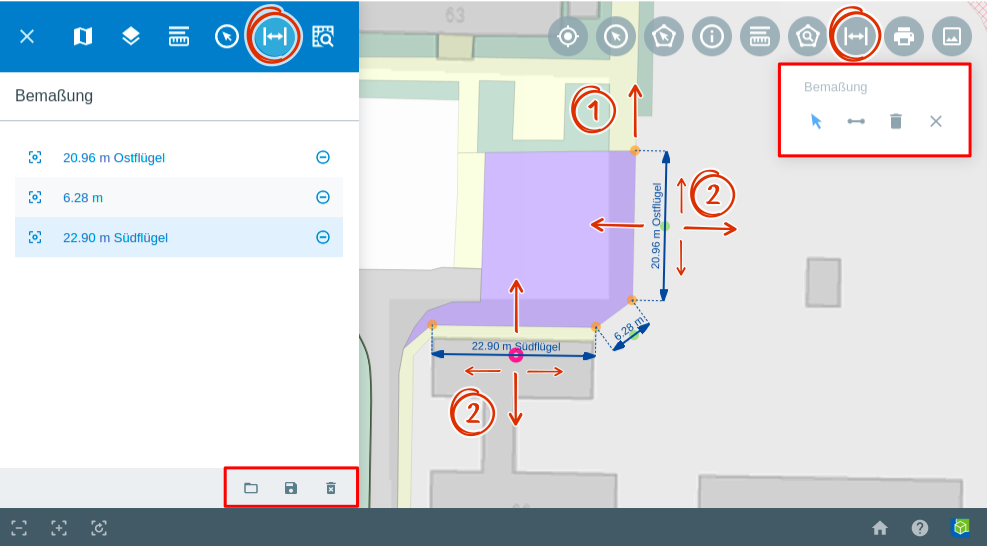
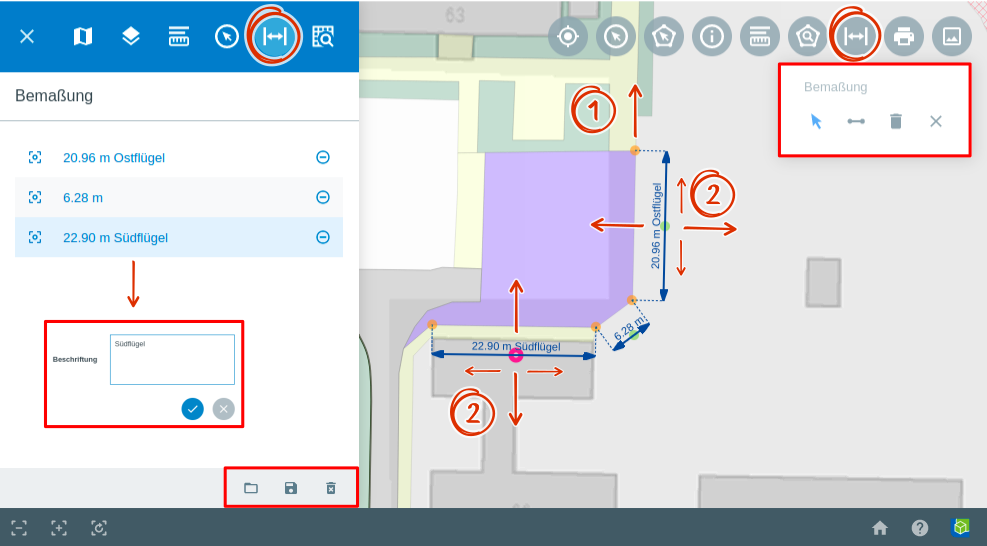
GWS Doku Update

Changed region(s): [[0.0304, 0.5293, 0.2736, 0.8095], [0.0304, 0.6227, 0.0912, 0.685]]

diff --git a/doc/sphinx/books/client-user/de/toolbox/gkos.rst b/doc/sphinx/books/client-user/de/toolbox/gkos.rst
@@ -3,18 +3,22 @@
 GeKoS
 =====
 
-GeKos ist ein Anbieter für kommunale Software Lösungen. Das |gkos| ``GeKoS``-Werkzeug ist eine Schnittstelle zum Einbinden dieser externen Fachschale in die GBD WebSuite.
+**Funktion:**
+
+GeKos ist ein Anbieter für kommunale Software Lösungen. Das |gkos| :guilabel:`GeKoS`-Werkzeug ist eine Schnittstelle zum Einbinden dieser externen Fachschale in die GBD WebSuite.
 Falls Sie mit GeKoS zusammenarbeiten, können Sie mit Hilfe dieses Werkzeugs, Daten und Informationen einbinden, verwalten und weiterleiten.
 Änderungen werden in der GBD WebSuite übernommen, sowie an die Gekos Software übermittelt.
-
-.. figure:: ../../../screenshots/de/client-user/gkos1.png
-  :align: center
-
 Eingebundene Daten stehen Ihnen als eigene Layer zur Verfügung. In diesem Beispiel wurden via Gekos Baugenehmigungsverfahren eingebunden,
 welche konkreten Flurstücken aus einem anderen Layer zugeordnet sind. Diese Baugenehmigungsverfahren können in der GBD WebSuite eingesehen und editiert werden.
-Eine häufige Aufgabe bei diesen Verfahren ist es, die Vorgangskoordinaten zu ermitteln. Hierzu wurden drei Icons mit Funktionen in die Gekos Maske eingebunden.
 
-.. figure:: ../../../screenshots/de/client-user/gkos2.png
+.. figure:: ../../../screenshots/de/client-user/gkos11.png
+  :align: center
+
+**Bedienung:**
+
+Die Ermittlung der Vorgangskoordinate ist eine gefragte Aufgabe bei diesen Verfahren. Hierzu wurden drei Icons mit Funktionen in die Gekos Maske eingebunden.
+
+.. figure:: ../../../screenshots/de/client-user/gkos22.png
   :align: center
 
 * |1| Über dieses Icon können Sie die Karte auf die vorhandene Vorgangskoordinate fokussieren.
@@ -25,14 +29,16 @@ Eine häufige Aufgabe bei diesen Verfahren ist es, die Vorgangskoordinaten zu er
 Die Symbolisierung und Beschriftung der Gekos Daten bzw. der Objekte eines Gekos Layers werden in QGIS konfiguriert.
 Dabei stehen sämtliche QGIS Darstellungsoptionen zur Verfügung.
 
-.. figure:: ../../../screenshots/de/client-user/gkos4.png
+.. figure:: ../../../screenshots/de/client-user/gkos44.png
   :align: center
 
-Die Suchfunktion der GBD WebSuite kann so eingerichtet werden, dass eine Suche die Attributwerte der Gekos Objekte mit einbezieht.
-So können Sie durch ein einziges Schlagwort einen Vorgang finden und sich anzeigen lassen.
+.. admonition:: Konfigurationsmöglichkeiten
 
-.. figure:: ../../../screenshots/de/client-user/gkos3.png
-  :align: center
+ Die Suchfunktion der GBD WebSuite kann so eingerichtet werden, dass eine Suche die Attributwerte der Gekos Objekte mit einbezieht.
+ So können Sie durch ein einziges Schlagwort einen Vorgang finden und sich anzeigen lassen.
+
+ ..   .. figure:: ../../../screenshots/de/client-user/gkos3.png
+    :align: center
 
 Für zusätzliche Informationen schauen Sie gerne auch unter: https://www.gekos.de/
 

diff --git a/doc/sphinx/books/client-user/de/toolbox/cadastral_unit_tools.rst b/doc/sphinx/books/client-user/de/toolbox/cadastral_unit_tools.rst
@@ -4,14 +4,17 @@ Flurstücksuche Werkzeuge
 ========================
 
 Funktionen der :ref:`Flurstücksuche <cadastral_unit_searching>` können prominent in der Werkzeugleiste angeordnet werden.
-Die beiden Funktionen ``Flurstücke über räumliche Suche finden`` und ``Einzelne Flurstücke in der Karte auswählen`` können so direkt aktiviert werden.
+Die beiden Funktionen :guilabel:`Flurstücke über räumliche Suche finden` und :guilabel:`Einzelne Flurstücke in der Karte auswählen` können so direkt aktiviert werden.
 
-.. rubric:: Flurstücke in der Karte über eine räumliche Suche finden
+Flurstücke in der Karte über eine räumliche Suche finden
+--------------------------------------------------------
 
-Mit Hilfe des Werkzeuges |spatial_search| ``Flurstücke über räumliche Suche finden`` ist es möglich, Flurstücke durch das Zeichnen von Geometrien zu ermitteln.
+**Funktion:**
+
+Mit Hilfe des Werkzeuges |spatial_search| :guilabel:`Flurstücke über räumliche Suche finden` ist es möglich, Flurstücke durch das Zeichnen von Geometrien zu ermitteln.
 Es öffnet sich in der Toolbar die Leiste für die ``Räumliche Suche`` mit dem Verweis, dass nun in den Flurstücken gesucht wird.
 
-**Beispiel: Auswahl Flurstücke durch Linie**
+**Bedienung:**
 
 Wählen Sie das Tool Linie aus. Zeichnen Sie nun parallel zu einer Straße eine Linie und schließen Sie diese mit einem Doppelklick ab.
 Anschließend werden Ihnen die Flurstücke in den Ergebnissen aufgelistet, welche von der Linie geschnitten werden. Auf dem Screenshot unten sieht man ein mögliches Ergebnis.
@@ -19,16 +22,23 @@ Anschließend werden Ihnen die Flurstücke in den Ergebnissen aufgelistet, welch
  .. figure:: ../../../screenshots/de/client-user/cadastral_unit_searching_area_search.png
    :align: center
 
-.. rubric:: Flurstücke in der Karte selektieren
+Flurstücke in der Karte selektieren
+-----------------------------------
 
-Das Werkzeug |select| ``Einzelne Flurstücke in der Karte wählen`` ermöglicht die Selektierung einzelner Flurstücke.
+**Funktion:**
+
+Das Werkzeug |select| :guilabel:`Einzelne Flurstücke in der Karte wählen` ermöglicht die Selektierung einzelner Flurstücke.
+
+**Bedienung:**
+
 Sobald das Werkzeug aktiviert ist, können Sie per Mausklick gewünschte Flurstücke aussuchen, welche dann in der Ablage aufgelistet werden.
 
  .. figure:: ../../../screenshots/de/client-user/cadastral_unit_searching_5.png
    :align: center
 
-.. note::
-  Die Längeneinheit kann individuell angepasst werden.
+.. admonition:: Konfigurationsmöglichkeiten
+
+ Die Längeneinheit kann individuell angepasst werden.
 
  .. |dimensions| image:: ../../../images/gbd-icon-bemassung-02.svg
    :width: 30em

diff --git a/doc/sphinx/books/client-user/de/toolbox/selecting.rst b/doc/sphinx/books/client-user/de/toolbox/selecting.rst
@@ -10,16 +10,16 @@ Auswählen
 **Bedienung:**
 
 Aktivieren Sie das Werkzeug, indem Sie auf |select| in der Werkzeugleiste klicken.
-Durch ein Anklicken der Objekte werden diese selektiert. Die ausgewählten Objekte werden orange markiert.
+Durch ein Anklicken von Objekten werden diese selektiert. Die ausgewählten Objekte werden orange markiert.
 Wenn Sie ein Objekt ein zweites mal Anklicken wird die Selektion aufgehoben.
-
-Alle selektierten Objekte werden in der Ablage des Menüpunkts :ref:`Auswahl <select>` aufgelistet.
-Dieser Menüpunkt öffnet sich automatisch, wenn das |select| :guilabel:`Auswählen`-Werkzeug aktiviert wird.
 
 .. figure:: ../../../screenshots/de/client-user/select1.png
   :align: center
 
-Am unteren Menüfensterrand befinden sich folgend Funktionen für den Menüpunkt :ref:`Auswahl <select>`:
+
+Alle selektierten Objekte werden in der Ablage des Menüpunkts :ref:`Auswahl <select>` aufgelistet.
+Dieser Menüpunkt öffnet sich automatisch, wenn das |select| :guilabel:`Auswählen`-Werkzeug aktiviert wird.
+Am unteren Menüfensterrand befinden sich folgende Funktionen für diesen Menüpunkt:
 
  * |load| Auswahl laden
  * |save| Auswahl speichern
@@ -27,7 +27,7 @@ Am unteren Menüfensterrand befinden sich folgend Funktionen für den Menüpunkt
 
 .. admonition:: Konfigurationsmöglichkeiten
 
- Durch eine Konfiguration ist eine Beschränkung dieser Funktion auf definierte Layer möglich.
+ Eine Beschränkung dieser Funktion auf definierte Layer kann konfiguriert werden.
 
  .. |select| image:: ../../../images/gbd-icon-auswahl-01.svg
    :width: 30em

diff --git a/doc/sphinx/books/client-user/de/toolbox/print.rst b/doc/sphinx/books/client-user/de/toolbox/print.rst
@@ -20,15 +20,17 @@ Im Kartenfenster öffnet sich ein Kartenrahmen mit dazugehörigem Dialogfenster.
 .. figure:: ../../../screenshots/de/client-user/print1.png
   :align: center
 
-* :command:`Druckvorlage:` und somit die Ausdehnung des Kartenrahmens konfigurieren.
-* :command:`Druckqualität:` kann unterschiedlich bereitgestellt werden.
-* :command:`Beschriftung:` können Sie einen Titel für den Druck vergeben.
+Hier sollten folgende Parameter zuerst definiert werden:
+
+* :command:`Druckvorlage:` Ausdehnung des Kartenrahmens
+* :command:`Druckqualität:` Auflösung der generierten Karte
+* :command:`Beschriftung:` Individueller Titel
 
 .. admonition:: Konfigurationsmöglichkeiten
 
  Es ist möglich, dass vordefinierte Werte mit Titeln wie niedrig, mittel und hoch verknüpft sind, die dann zur Wahl stehen.
  Alternativ ist es auch möglich, dass über ein Schieberegler der DPI-Wert frei gewählt werden kann.
- In der Regel steht dann aber kein DPI-Wert von unter 70 DPI zur Verfügung, da sonst die Qualität des Drucks nicht gewährt wäre.
+ Ein DPI-Wert von unter 70 DPI steht nicht zur Verfügung, da sonst die Qualität des Drucks nicht gewährt wäre.
 
 Der Kartenrahmen stellt den zu druckenden Ausschnitt dar und kann beliebig verschoben werden.
 Über das Dialogfenster kann er konfiguriert werden.
@@ -41,8 +43,6 @@ sowie manuell festgelegte Transparenzen für einzelne Layer und Layergruppen.
 
 .. figure:: ../../../screenshots/de/client-user/print.png
   :align: center
-
-
 
 .. |print| image:: ../../../images/baseline-print-24px.svg
     :width: 30em

diff --git a/doc/sphinx/books/client-user/de/toolbox/dimensioning.rst b/doc/sphinx/books/client-user/de/toolbox/dimensioning.rst
@@ -6,7 +6,7 @@ Bemaßung
 **Funktion:**
 
 Das |dimensions| :guilabel:`Bemaßung`-Werkzeug ermöglicht die Erfassung von Streckenlängen, durch das Zeichnen von Linien. Ähnlich einer technischen Bemaßung.
-Die gezeichneten Linien werden automatisch mit den jeweiligen Streckenlängen beschriftet.
+Die gezeichneten Linien werden automatisch mit den jeweiligen Streckenlängen beschriftet. Zusätzlich kann eine individuelle Beschriftung angehangen werden.
 
 **Bedienung:**
 
@@ -21,15 +21,15 @@ Nach Aktivierung des Tools, öffnet sich unter der Werkzeugleiste ein Feld mit f
 
   * Klicken Sie einmal um einen neuen Stützpunkt zu setzen
   * Klicken Sie zweimal um das Zeichnen einer Linie zu beenden
-  * Halten Sie die Muasgedrückt um den Kartenausschnitt zu verschieben
+  * Halten Sie die Mausgedrückt um den Kartenausschnitt zu verschieben
 
- .. figure:: ../../../screenshots/de/client-user/dimensions2.png
+ .. figure:: ../../../screenshots/de/client-user/dimensions1.png
    :align: center
-
 
 Alle erstellten Bemaßungen werden in der Ablage des Menüpunkts :ref:`Bemaßungen <dimensions>` aufgelistet.
 Dieser Menüpunkt öffnet sich automatisch, wenn das |dimensions| :guilabel:`Bemaßung`-Werkzeug aktiviert wird.
-Am unteren Menüfensterrand befinden sich folgende Funktionen für den Menüpunkt Bemaßungen:
+Durch das Anklicken einer Bemaßung, kann eine individuelle :command:`Beschriftung` vergeben werden.
+Am unteren Menüfensterrand befinden sich folgende Funktionen für diesen Menüpunkt:
 
  * |load| Auswahl laden
  * |save| Auswahl speichern

diff --git a/doc/sphinx/books/client-user/de/toolbox/measure.rst b/doc/sphinx/books/client-user/de/toolbox/measure.rst
@@ -3,16 +3,21 @@
 Markieren & Messen
 ==================
 
-Beim Aktivieren des |measure| ``Markieren & Messen``-Werkzeugs öffnet sich automatisch der Menüpunkt :ref:`Markierungen <markings>` in der Menüleiste.
-Unter diesem Menüpunkt werden alle erstellten Objekte aufgelistet.
+**Funktion:**
 
-Das ``Markieren & Messen``-Werkzeug kann mit Hilfe von fünf verschiedenen Geometrischen Formen angewendet werden:
+Mit dem |measure| :guilabel:`Markieren & Messen`-Werkzeug ist es möglich, Punkte zu markieren, sowie Strecken und Flächen zu messen.
 
-**Punktmarkierung** |point|,
-**Distanzmessung** |distance|,
-**Rechteck-** |quadrat|,
-**Polygon-** |polygon|,
-und **Kreisflächenmessung** |measurecircle|
+
+**Bedienung:**
+
+Beim Aktivieren des |measure| :guilabel:`Markieren & Messen`-Werkzeugs öffnet sich automatisch der Menüpunkt :ref:`Markierungen <markings>` in der Menüleiste.
+Unter diesem Menüpunkt werden alle erstellten Objekte aufgelistet. Es stehen fünf verschiedene Geometrien zur Verfügung:
+
+ * |point| :command:`Punktmarkierung`
+ * |distance| :command:`Distanzmessung`
+ * |quadrat| :command:`Rechteckflächenmessung`
+ * |polygon| :command:`Polygonflächenmessung`
+ * |measurecircle| :command:`Kreisflächenmessung`
 
 .. figure:: ../../../screenshots/de/client-user/marking_tool.png
   :align: center

diff --git a/doc/sphinx/books/client-user/de/toolbox/dprocon.rst b/doc/sphinx/books/client-user/de/toolbox/dprocon.rst
@@ -3,12 +3,12 @@
 D-ProCon
 ========
 
-Über das |dpro| ``D-Procon``-Werkzeug können statistische Analysen durchgeführt werden.
+**Funktion:**
+
+Über das |dpro| :guilabel:`D-Procon`-Werkzeug können statistische Analysen durchgeführt werden.
 Die Nutzung ist jedoch nur möglich, wenn Sie im Besitz einer D-ProCon Lizenz sind, da es ein proprietäres Programm ist.
-
-Das ``D-Procon``-Werkzeug verarbeitet auf ALKIS basierte Adressdaten. Diese Adressdaten werden durch die Auswahl von Objekten selektiert.
-Sie können ein vorhandenes Objekt, wie zum Beispiel ein Flurstück oder einen Stadtteil sowie ein durch die ``Räumliche Suche`` selbst erstelltes Objekt verwenden.
-
+Das :guilabel:`D-Procon`-Werkzeug verarbeitet auf ALKIS basierte Adressdaten. Diese Adressdaten werden durch die Auswahl von Objekten selektiert.
+Sie können ein vorhandenes Objekt, wie zum Beispiel ein Flurstück oder einen Stadtteil sowie ein durch die :guilabel:`Räumliche Suche` selbst erstelltes Objekt verwenden.
 Das Tool untersucht diese Objekte auf besagte ALKIS Adressdaten. Anhand derer werden statistische Prognosen erstellt,
 welche Informationen über die demografische Entwicklung bereitstellen.
 

diff --git a/doc/sphinx/books/client-user/de/toolbox/mouseover.rst b/doc/sphinx/books/client-user/de/toolbox/mouseover.rst
@@ -14,7 +14,11 @@ Wählen Sie das Werkzeug in der Werkzeugleiste an.
 Halten Sie jetzt den Mauszeiger für mindestens 1,5 Sekunden auf das gewünschte Objekt.
 Automatisch öffnen sich die Objekteigenschaften im Pop-up Fenster.
 
-Unter |options| ``Aufgaben`` stehen weitere Funktionen zur Verfügung: |fokus| :guilabel:`Hinzoomen`, |measure| :guilabel:`Markieren und Messen`, |select| :guilabel:`Auswählen`
+Unter |options| ``Aufgaben`` stehen weitere Funktionen zur Verfügung:
+
+ * |fokus| :guilabel:`Hinzoomen`
+ * |measure| :guilabel:`Markieren und Messen`
+ * |select| :guilabel:`Auswählen`
 
 .. figure:: ../../../screenshots/de/client-user/object_identification_2.png
   :align: center

diff --git a/doc/sphinx/books/client-user/de/sidebar/dimensions.rst b/doc/sphinx/books/client-user/de/sidebar/dimensions.rst
@@ -16,7 +16,7 @@ Wenn Sie mit Hilfe des Werkzeuges |dimensions| ``Bemaßung`` Objekte gezeichnet 
 Hier findet eine Auflistung aller gezeichneten Bemaßungen statt.
 Durch Klicken auf |fokus| wird auf das gewählte Objekt gezoomt. Durch Klicken auf |delete| wird dieses Objekt gelöscht.
 
-.. figure:: ../../../screenshots/de/client-user/dimensions_menue.png
+.. figure:: ../../../screenshots/de/client-user/dimensions.png
   :align: center
 
 Unter den Objekten finden Sie Optionen, die sich auf alle aufgelisteten Objekte beziehen.
